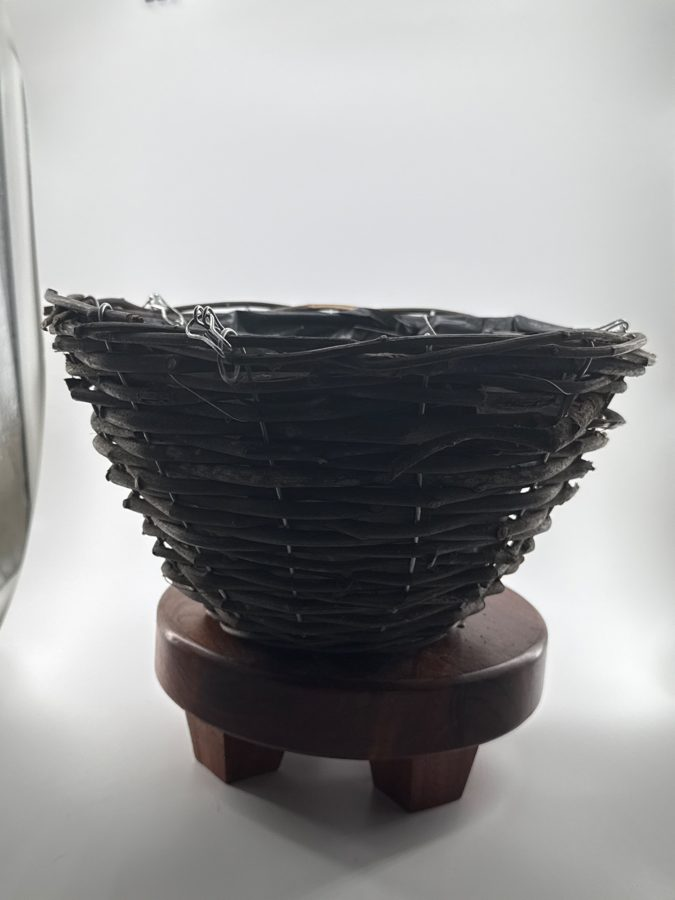
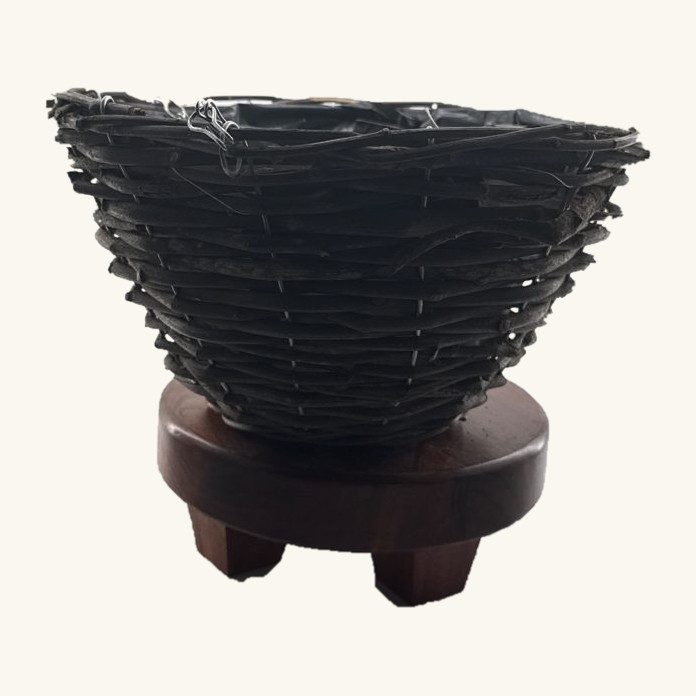
Clean photo backgrounds: SH-0040, SH-0041
clean_photo.py now drops small stray specks from the cutout.

Claude-Session: https://claude.ai/code/session_01XEmymcPSywWpWwdRTQr9Lp

diff --git a/build/clean_photo.py b/build/clean_photo.py
@@ -13,6 +13,12 @@ m[cv2.dilate((a>15).astype(np.uint8), np.ones((k,k)))==0] = cv2.GC_BGD
 bg,fg = np.zeros((1,65)),np.zeros((1,65))
 cv2.grabCut(img, m, None, bg, fg, 4, cv2.GC_INIT_WITH_MASK)
 alpha = np.where((m==1)|(m==3),255,0).astype(np.uint8)
+# drop small stray specks (keep pieces at least 3% the size of the largest)
+n,lab,st,_ = cv2.connectedComponentsWithStats((alpha>0).astype(np.uint8),8)
+if n>2:
+    big = st[1:,cv2.CC_STAT_AREA].max()
+    for i in range(1,n):
+        if st[i,cv2.CC_STAT_AREA] < 0.03*big: alpha[lab==i]=0
 alpha = cv2.GaussianBlur(alpha,(3,3),0)
 # place on soft cream background, centered with margin
 rgba = np.dstack([np.array(im), alpha])
